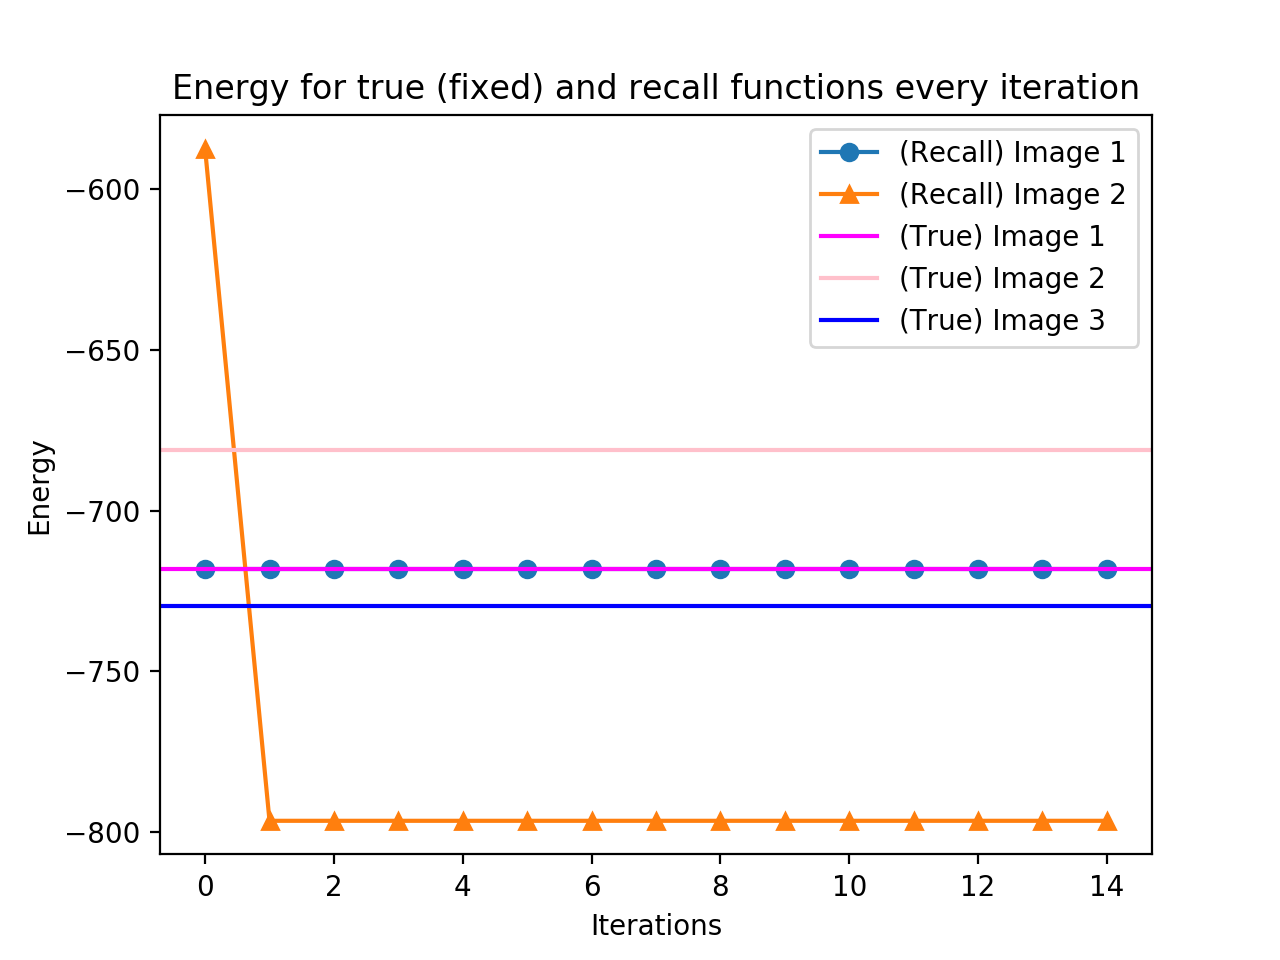
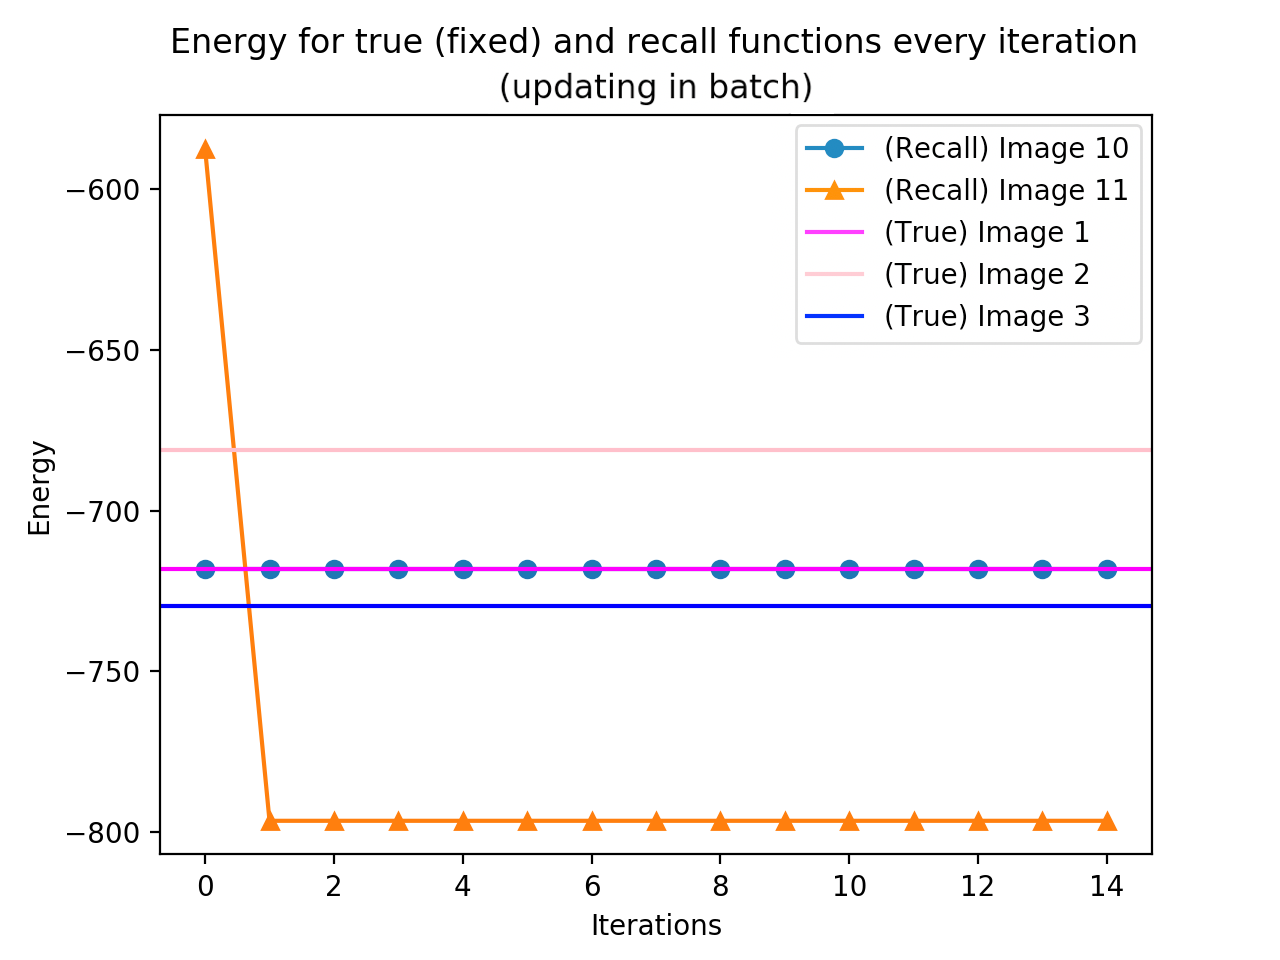
updated images and task3.4

Changed region(s): [[0.125, 0.0312, 0.9062, 0.375]]

diff --git a/Lab3/hopfield.py b/Lab3/hopfield.py
@@ -34,7 +34,7 @@ class Hopfield_Network(object):
 
     def recall_batch(self, test_patterns):
         patterns = test_patterns.copy()
-        patterns = np.dot(patterns, self.W)
+        patterns = np.dot(test_patterns, self.W)
         patterns[patterns >= 0] = 1
         patterns[patterns < 0] = -1
         self.energies.append(self.energy(patterns))
@@ -119,7 +119,7 @@ def plot_energy(energy_list, epochs, attractor_energy):
     }
 
     for i in range(energy_list.shape[0]):
-        plt.plot(iterations, energy_list[i], label="(Recall) Image " + str(i+1), marker=list_sym[i])
+        plt.plot(iterations, energy_list[i], label="(Recall) Image " + str(i+10), marker=list_sym[i])
     
     for i in range(attractor_energy.shape[0]):
         plt.axhline(y=attractor_energy[i], label="(True) Image " + str(i+1), linestyle="-", color=colors[i])
@@ -163,7 +163,7 @@ def task3_23(use_ndr=False, mode="batch"):
     
     attractor_energy = hopfield.energy(train_data)
 
-    epochs = int(np.log2(hopfield.units))
+    epochs = int(np.log2(hopfield.units)) - 9
     
     recall = test_data.copy()
     for epoch in range(epochs):
@@ -179,7 +179,7 @@ def task3_23(use_ndr=False, mode="batch"):
 
     plot_image(recall_images[1])
     
-def plot_convergence(error_list, error_bits_list):
+def plot_convergence(error_list, error_bits_list, image_number):
     for i in range(error_list.shape[0]):
         epochs = 0
         for err in error_list[i]:
@@ -189,25 +189,27 @@ def plot_convergence(error_list, error_bits_list):
         plt.plot(np.arange(epochs), error_list[i][:epochs], label=str(error_bits_list[i]) + " error bits")
     
     plt.legend(loc="upper right")
-    plt.title("Error rate during each epoch depending on the amount of error bits")
+    plt.title("Error rate during each epoch depending on the amount of error bits (Image " + str(image_number) + ")")
     plt.xlabel("Epochs")
     plt.ylabel("Error (bits)")
     plt.show()
 
     
-def task3_4():
+def task3_4(image_number=0, max_iter=25):
     inputs, distorted_inputs = generate_inputs_task32(filename="data_lab3/pict.dat", slice_at=1024)
     
     train_data = np.concatenate((inputs[0].reshape(1, -1), inputs[1].reshape(1, -1), inputs[2].reshape(1, -1)))
 
-    test_data = inputs[0].reshape(1, -1)
+    test_data = inputs[image_number].reshape(1, -1)
     hopfield = Hopfield_Network(units=train_data.shape[1], ndr_weights=False)
     hopfield.store_patterns(train_data)
     """ Applying more and more noise, checking number of epochs until conversion """
     error_bits = np.arange(0, 1024, 50)
     
-    max_epochs = 25
+    max_epochs = max_iter
     error_list = -1 * np.ones((len(error_bits), max_epochs+1))
+    images = data_to_image(train_data)
+    
     for i in range(len(error_bits)):
         epochs = max_epochs
         noise = error_bits[i]
@@ -218,19 +220,19 @@ def task3_4():
         while error > 0.0 and epochs > 0:
             result = hopfield.recall_sequential_random(result)
             epochs -= 1
-            error = np.sum(np.abs(result-train_data[0]))
+            error = np.sum(np.abs(result-train_data[image_number]))
             error = error/2
             print("Error: " + str(error) + ", (" + str(error_bits[i]) + " error bits) \t epoch_number=" + str(max_epochs-epochs))
             error_list[i][max_epochs-epochs] = error
         
-    plot_convergence(error_list, error_bits)
+    plot_convergence(error_list, error_bits, image_number)
     
     #plotting
 
 
 """ Task calls """
 #task3_1()
-#task3_23(use_ndr=False, mode="batch") #TODO: Symmetric matrix
-task3_4()
+#task3_23(use_ndr=False, mode="seq") #TODO: Symmetric matrix
+#task3_4(image_number=2, max_iter=25)
 
 
